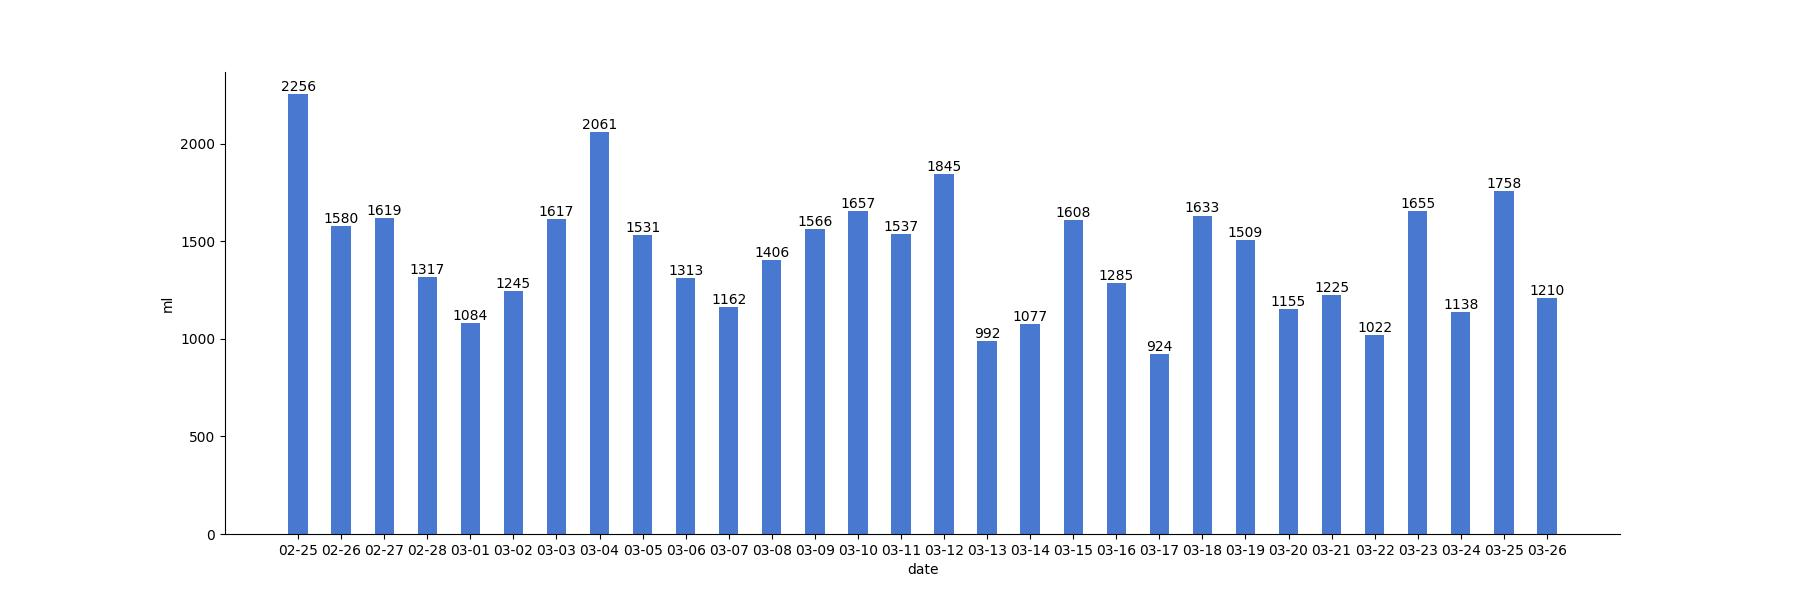
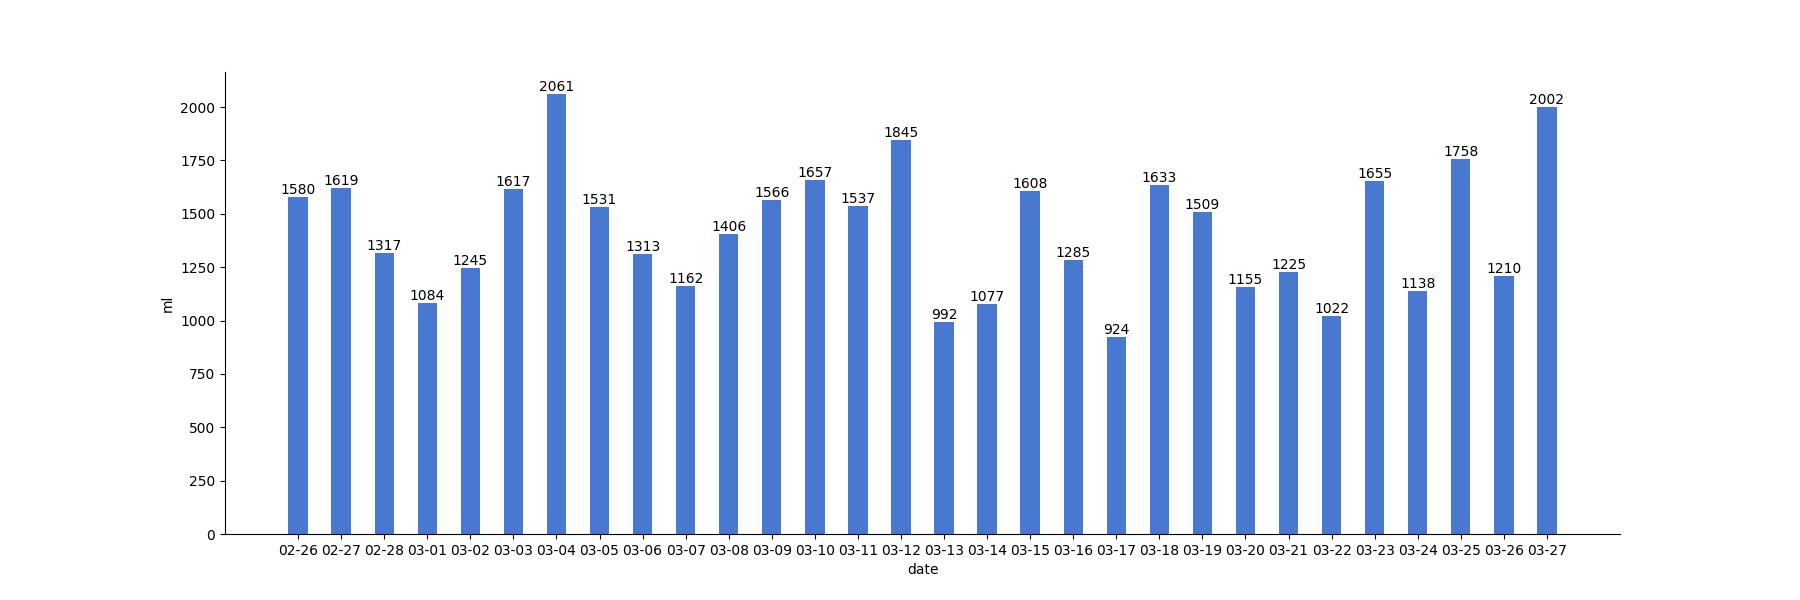
generated readme

diff --git a/README.md b/README.md
@@ -1,17 +1,3 @@
-# 今日饮水数据
-
-<div align=center>
-<img src="today.jpg" style="zoom: 100%;" />
-
-| 今日总饮水量 | 每小时平均饮水量 |
-| :----: | :----: |
-| 2002 | 166 |
-</div>
-
-| 日期 | 00:19:54 | 01:57:37 | 08:00:31 | 08:07:43 | 08:25:45 | 10:13:30 | 12:09:31 | 13:11:09 | 15:51:49 | 16:34:57 | 17:41:19 | 19:03:31 | 20:43:11 | 22:46:56 |
-| :----: | :----: | :----: | :----: | :----: | :----: | :----: | :----: | :----: | :----: | :----: | :----: | :----: | :----: | :----: |
-| 2023-03-27 | 250 | 42 | 221 | 57 | 133 | 37 | 200 | 105 | 159 | 75 | 200 | 110 | 163 | 250 |
-
 # 近30日饮水数据
 
 <div align=center>
@@ -19,8 +5,12 @@
 
 | 总饮水量 | 日均饮水量 |
 | :----: | :----: |
-| 42987 | 1432 |
+| 42733 | 1424 |
 </div>
+
+| 日期 | all | 00:19:54 | 01:57:37 | 08:00:31 | 08:07:43 | 08:25:45 | 10:13:30 | 12:09:31 | 13:11:09 | 15:51:49 | 16:34:57 | 17:41:19 | 19:03:31 | 20:43:11 | 22:46:56 |
+| :----: | :----: | :----: | :----: | :----: | :----: | :----: | :----: | :----: | :----: | :----: | :----: | :----: | :----: | :----: | :----: |
+| 2023-03-27 | 2002 | 250 | 42 | 221 | 57 | 133 | 37 | 200 | 105 | 159 | 75 | 200 | 110 | 163 | 250 |
 
 | 日期 | all | 00:39:03 | 02:42:36 | 04:15:25 | 05:42:55 | 07:03:21 | 15:52:15 | 16:42:37 | 20:13:58 | 20:43:29 | 21:42:00 | 22:54:02 |
 | :----: | :----: | :----: | :----: | :----: | :----: | :----: | :----: | :----: | :----: | :----: | :----: | :----: |
@@ -141,8 +131,4 @@
 | 日期 | all | 00:35:22 | 07:59:37 | 08:36:42 | 10:32:41 | 11:03:04 | 11:33:39 | 12:14:06 | 17:17:46 | 18:34:35 | 21:04:18 | 22:01:00 | 22:23:01 | 22:49:57 | 23:50:17 |
 | :----: | :----: | :----: | :----: | :----: | :----: | :----: | :----: | :----: | :----: | :----: | :----: | :----: | :----: | :----: | :----: |
 | 2023-02-25 | 2256 | 91 | 173 | 123 | 101 | 36 | 55 | 200 | 250 | 400 | 117 | 200 | 250 | 119 | 141 |
-
-| 日期 | all | 07:54:43 | 08:34:12 | 10:04:05 | 12:22:13 | 13:28:41 | 15:09:48 | 20:19:45 | 20:46:27 | 20:58:23 | 21:29:32 | 23:17:45 |
-| :----: | :----: | :----: | :----: | :----: | :----: | :----: | :----: | :----: | :----: | :----: | :----: | :----: |
-| 2023-02-24 | 1273 | 40 | 69 | 73 | 200 | 78 | 31 | 400 | 86 | 95 | 86 | 115 |
 
